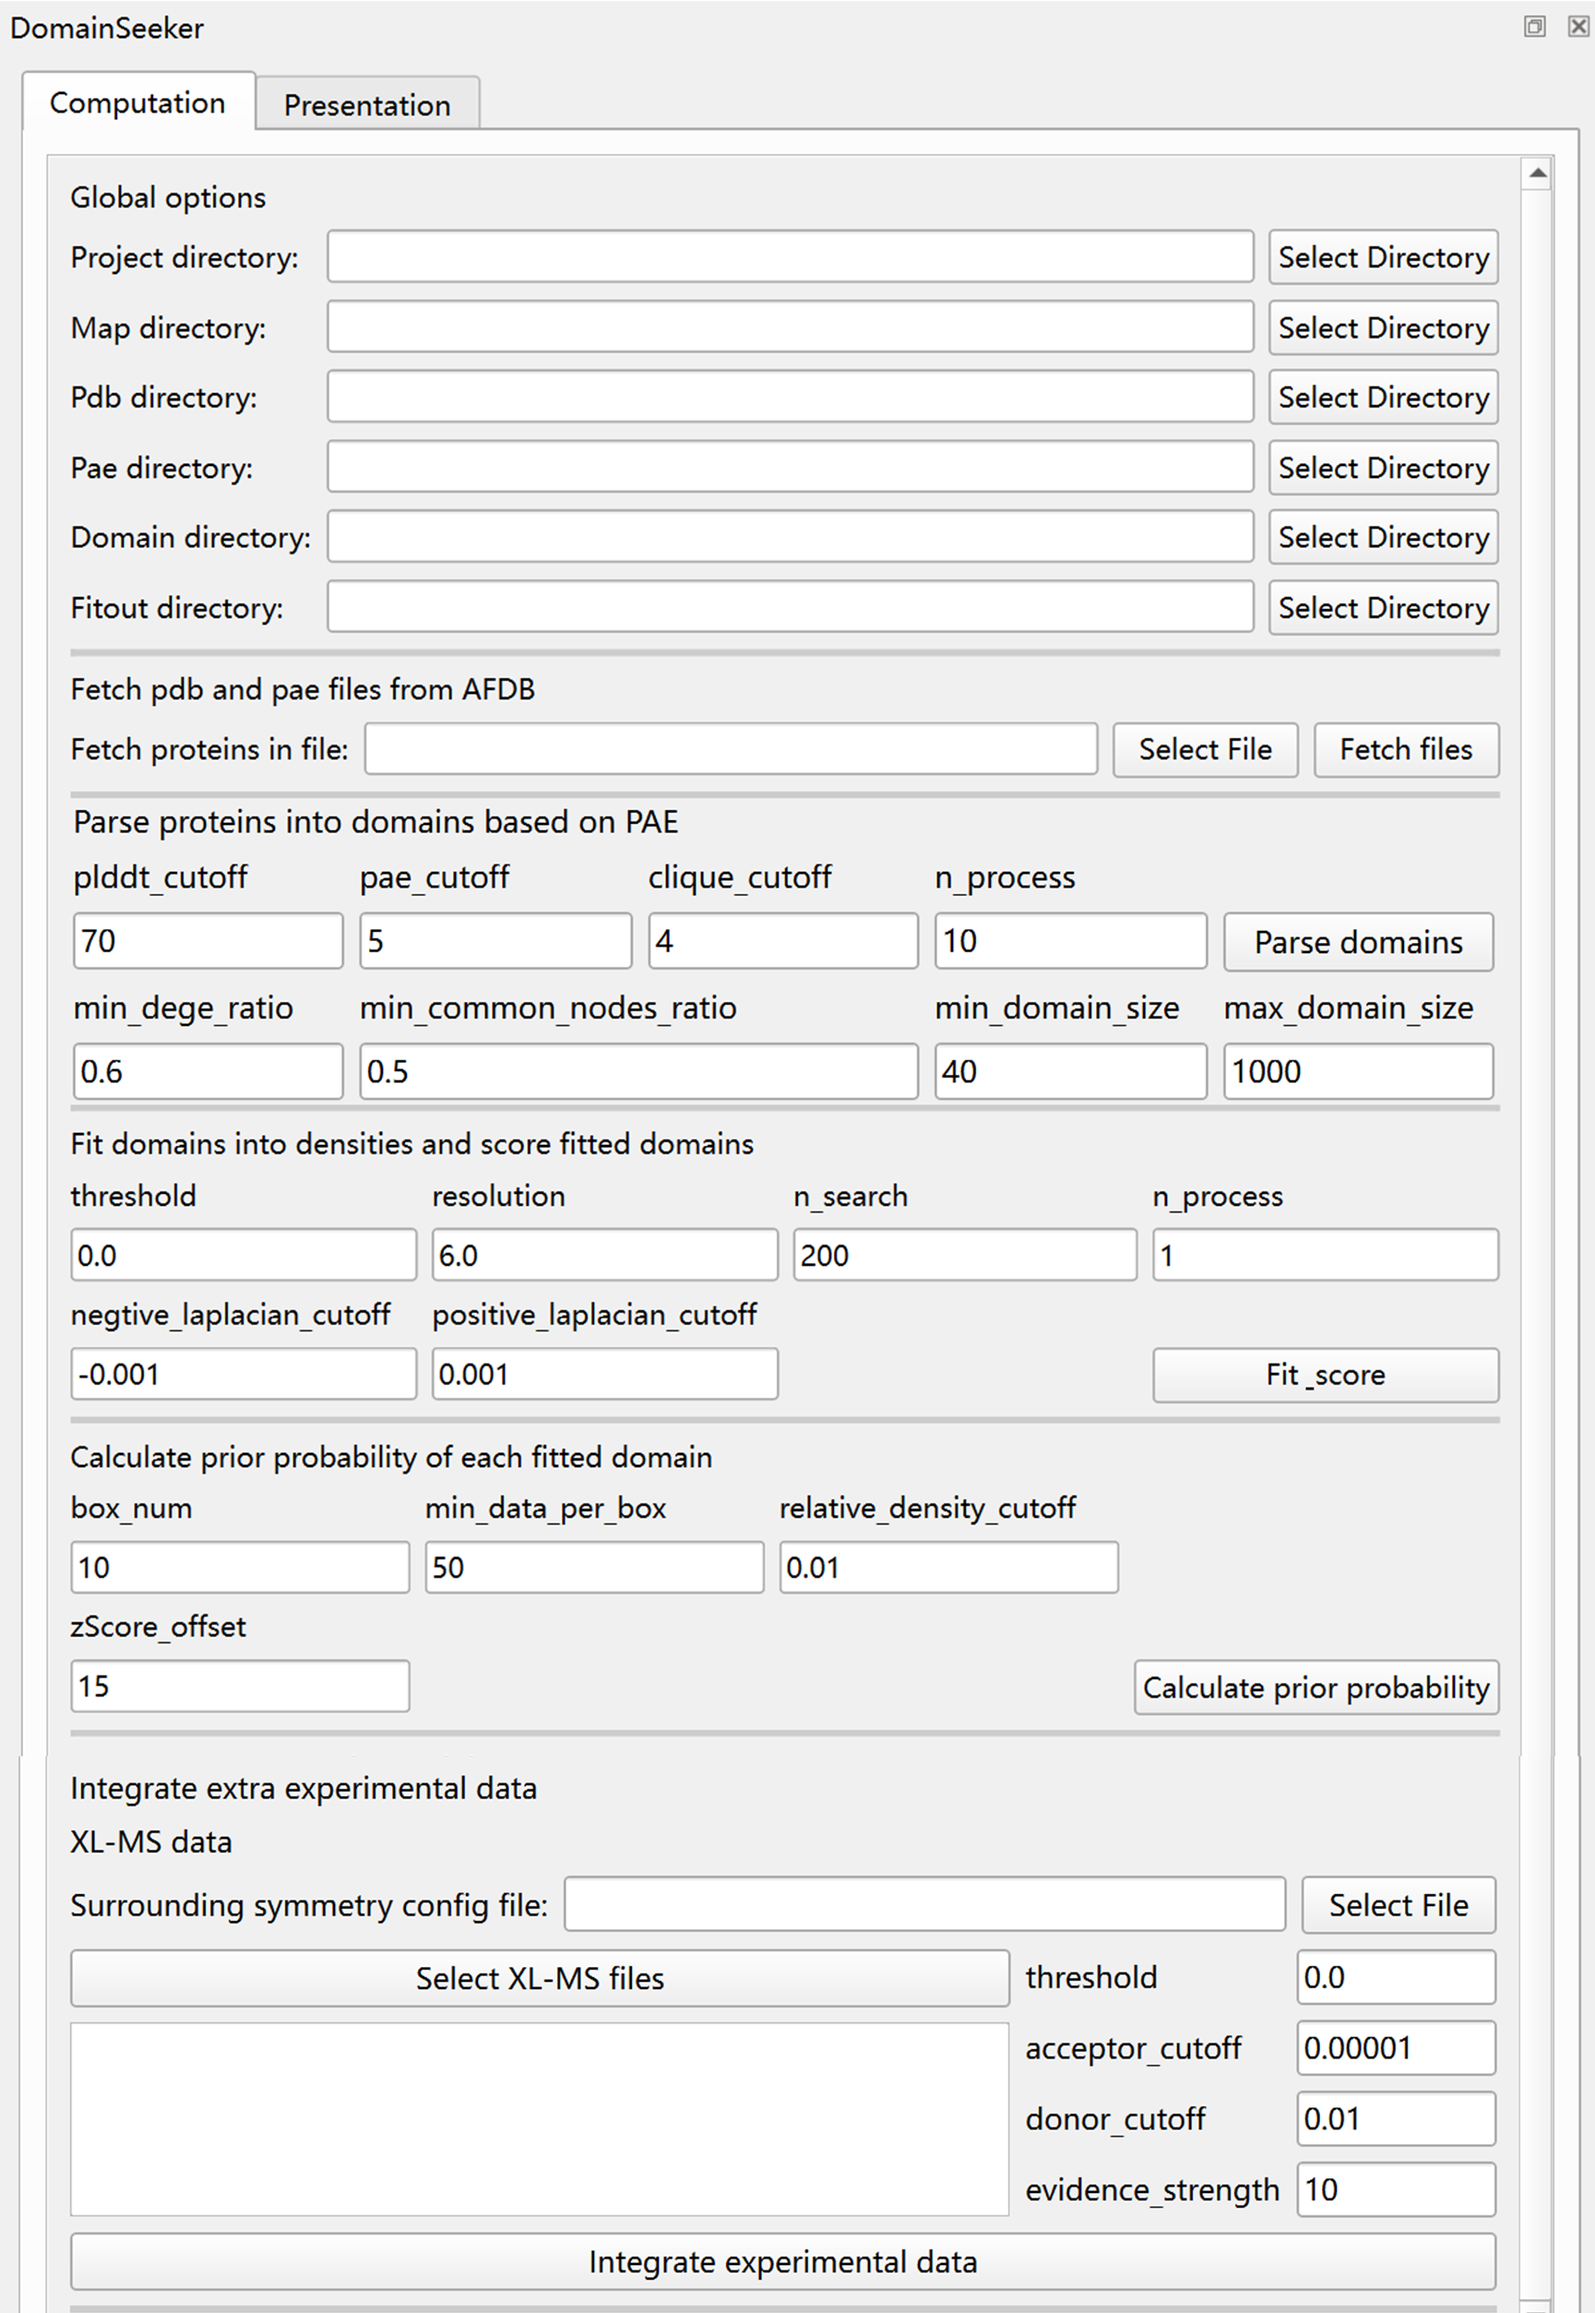
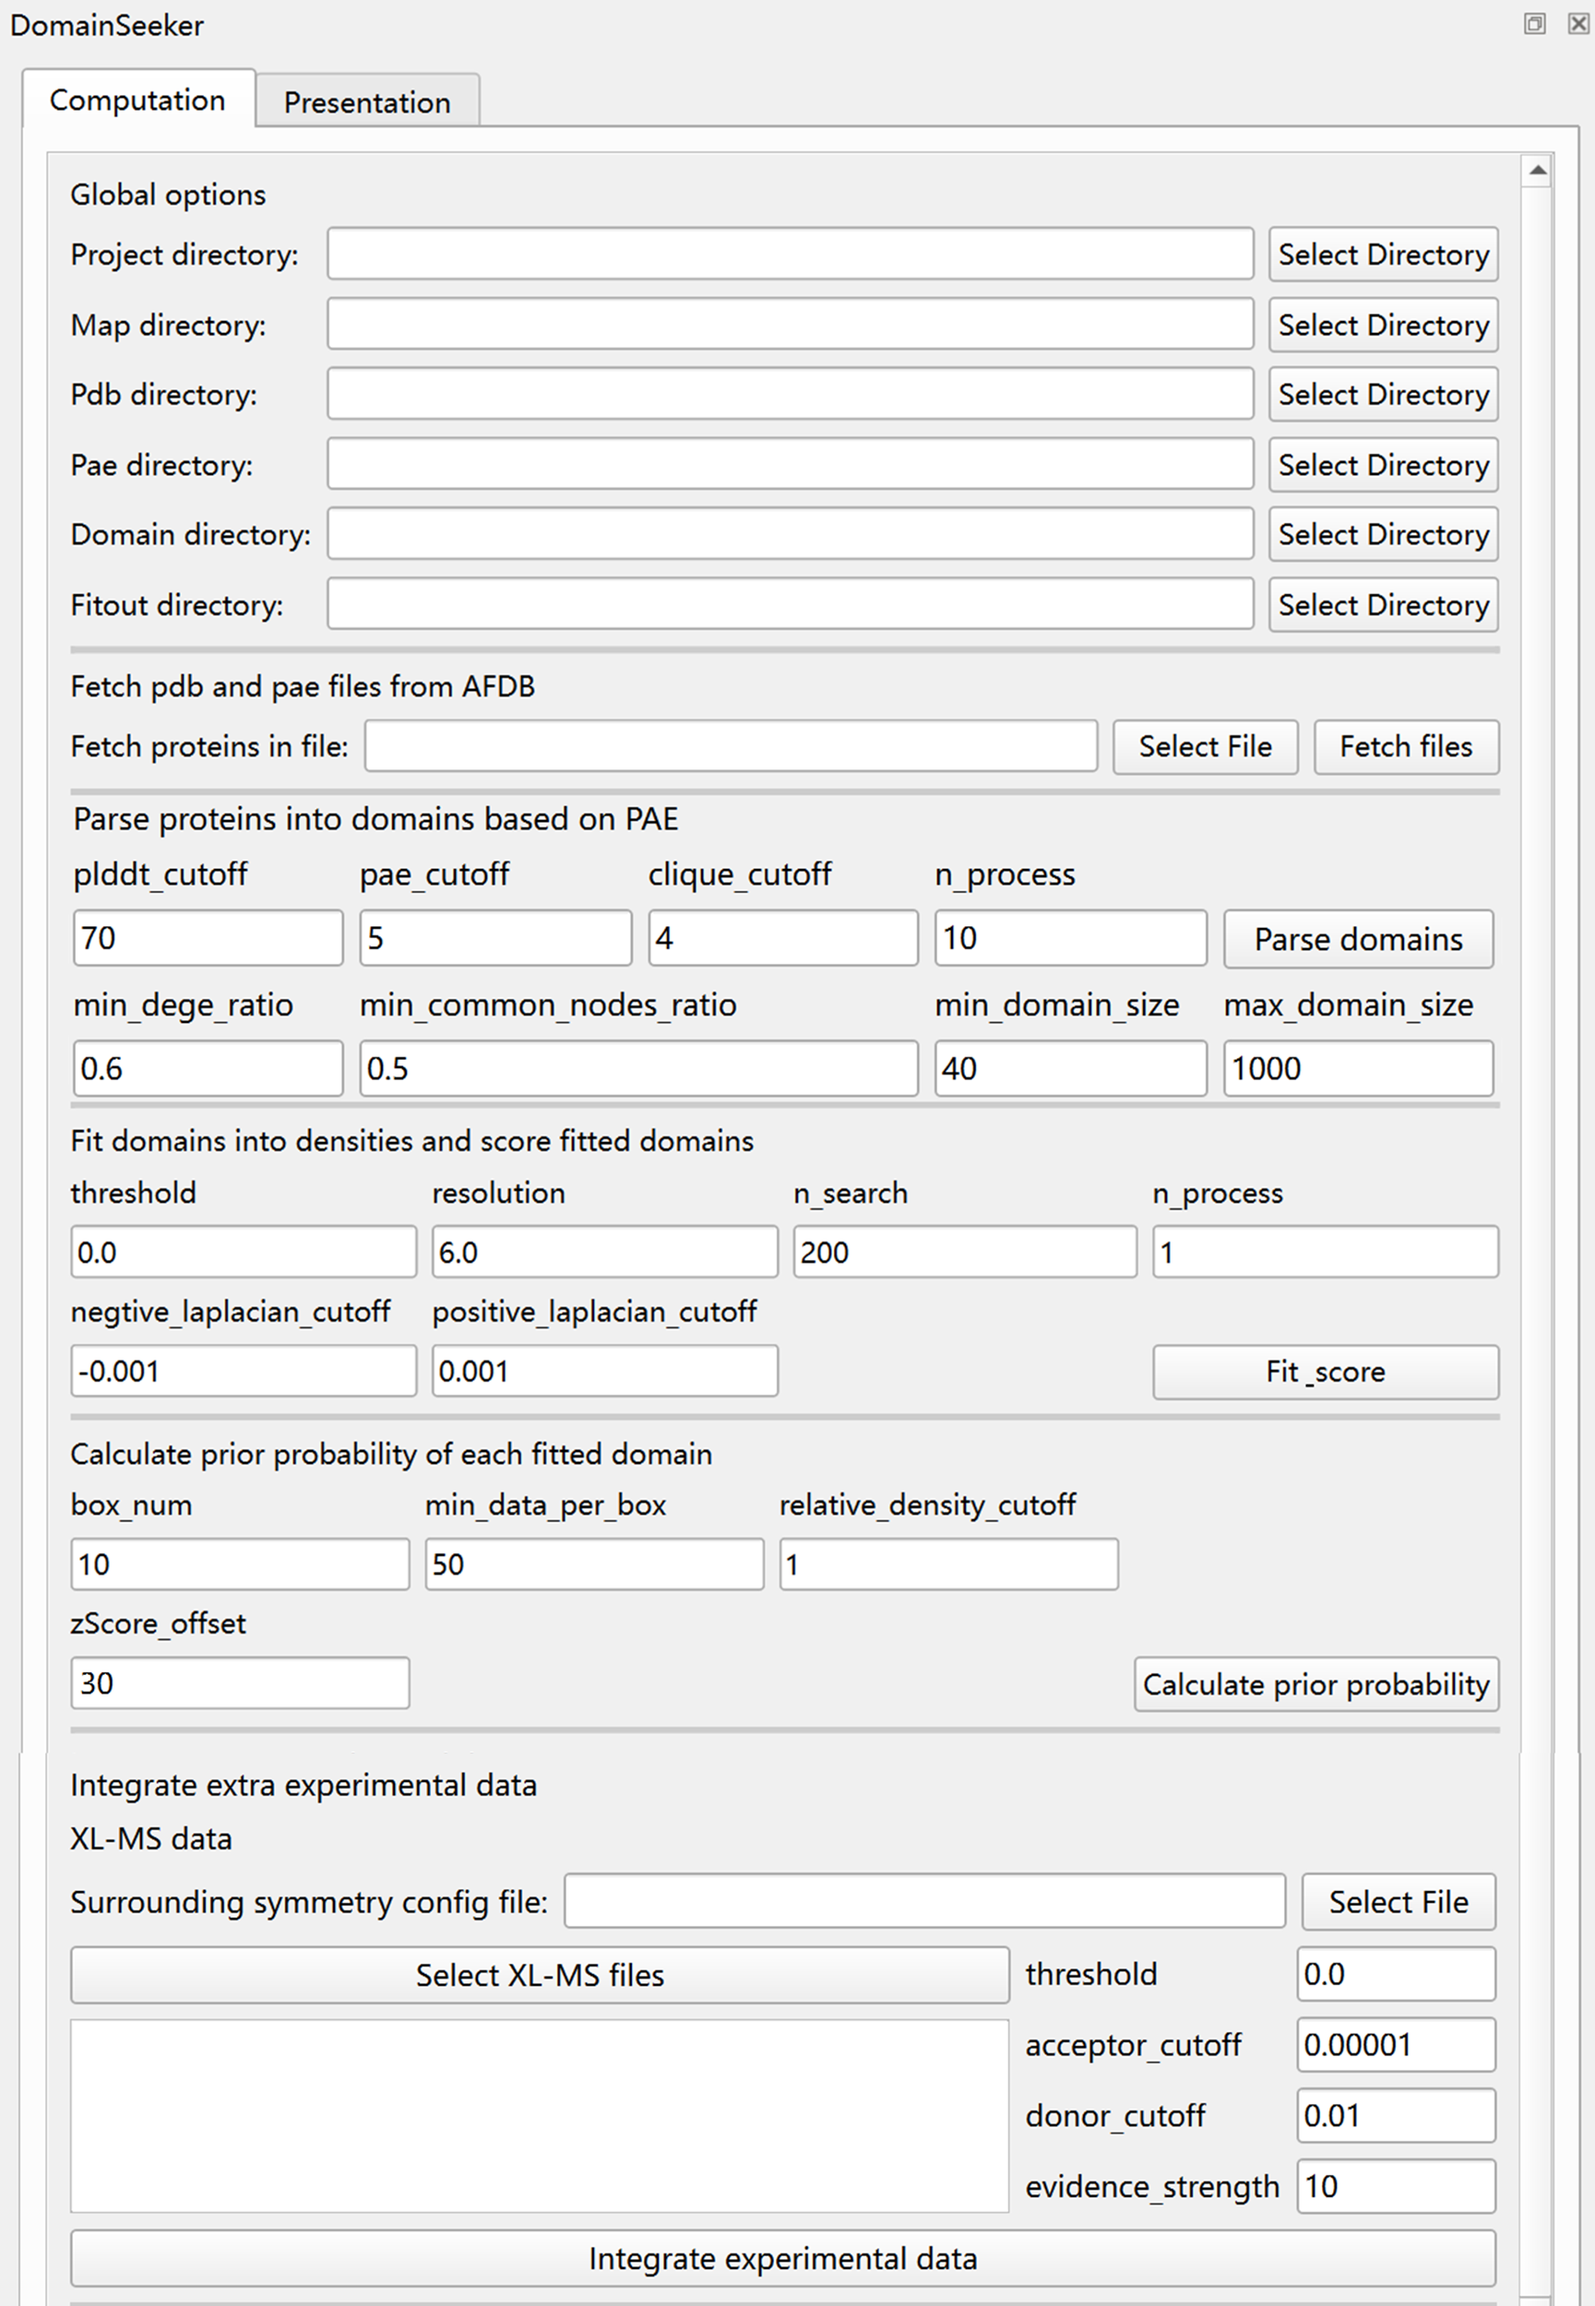
Support .cif files as input (auto-detected and converted). Formally support AF3 predicted structures (including multimers).

diff --git a/DomainSeeker_plugin/src/parse_with_pae.py b/DomainSeeker_plugin/src/parse_with_pae.py
@@ -5,6 +5,7 @@ import os,sys
 import multiprocessing
 from tqdm import tqdm
 import warnings
+from cif2pdb import cif2pdb
 
 pdb_dir=sys.argv[1]
 pae_dir=sys.argv[2]
@@ -181,12 +182,18 @@ def save_pdbs(u,clusters,uniprot_id,output_dir):
         info_file.close()
     return 0
 
-def run(pdb_file_name):
-    uniprot_id=pdb_file_name[:-4]
+def run(uniprot_id):
     pae_path=os.path.join(pae_dir,f"{uniprot_id}.json")
     if os.path.exists(pae_path):
-        # get the model
+        # 找 PDB，找不到则尝试 CIF → PDB
         pdb_path=os.path.join(pdb_dir,f"{uniprot_id}.pdb")
+        if not os.path.exists(pdb_path):
+            cif_path=os.path.join(pdb_dir,f"{uniprot_id}.cif")
+            if not os.path.exists(cif_path):
+                print(f"[WARN] {uniprot_id}: PDB 和 CIF 均不存在，跳过")
+                return
+            cif2pdb(cif_path, pdb_path)
+        # get the model
         with warnings.catch_warnings():
             warnings.simplefilter("ignore", category=UserWarning)
             # 抑制读取pdb时的冗余警告
@@ -202,11 +209,11 @@ def run(pdb_file_name):
 # run in parallel
 if __name__ == '__main__':
     os.makedirs(output_dir,exist_ok=True)
-    file_list=[file_name for file_name in os.listdir(pdb_dir) if file_name.endswith(".pdb")]
+    uniprot_id_list=[file_name[:-5] for file_name in os.listdir(pae_dir) if file_name.endswith(".json")]
 
     with multiprocessing.Pool(n_processors) as pool:
         # 强制迭代tqdm对象，更新进度条
-        for result in tqdm(pool.imap_unordered(run, file_list),total=len(file_list),desc="[STATUS]Parsing",file=sys.stdout):
+        for result in tqdm(pool.imap_unordered(run, uniprot_id_list),total=len(uniprot_id_list),desc="[STATUS]Parsing",file=sys.stdout):
             # 处理结果
             pass
     

diff --git a/DomainSeeker_plugin/src/cif2pdb.py b/DomainSeeker_plugin/src/cif2pdb.py
@@ -1,0 +1,52 @@
+"""
+CIF → PDB 转换模块
+
+使用 Gemmi 读取 mmCIF 文件，输出 PDB 文件。
+默认在 CIF 同目录生成同名 .pdb（不传 pdb_path 时）。
+
+依赖: gemmi
+
+用法:
+    from cif2pdb import cif2pdb
+    pdb = cif2pdb("structure.cif")             # → structure.pdb 在同目录
+    pdb = cif2pdb("structure.cif", "a.pdb")    # → a.pdb
+"""
+
+import os
+import gemmi
+
+
+def cif2pdb(cif_path, pdb_path=None):
+    """
+    读取 mmCIF 文件，输出 PDB 文件。
+
+    参数
+    ----------
+    cif_path : str
+        .cif 文件路径。
+    pdb_path : str, optional
+        PDB 输出路径。不传时自动设为 cif_path 同目录同名 .pdb。
+
+    返回
+    -------
+    str
+        PDB 文件的绝对路径。
+    """
+    if not os.path.exists(cif_path):
+        raise FileNotFoundError(f"文件不存在: {cif_path}")
+
+    try:
+        structure = gemmi.read_structure(cif_path)
+    except Exception as e:
+        raise ValueError(f"Gemmi 无法解析 CIF: {e}")
+
+    if not structure:
+        raise ValueError(f"CIF 中无模型数据: {cif_path}")
+
+    if pdb_path is None:
+        base, _ = os.path.splitext(cif_path)
+        pdb_path = base + ".pdb"
+
+    os.makedirs(os.path.dirname(pdb_path), exist_ok=True)
+    structure.write_pdb(pdb_path)
+    return os.path.abspath(pdb_path)

diff --git a/DomainSeeker_plugin/src/tool.py b/DomainSeeker_plugin/src/tool.py
@@ -296,12 +296,12 @@ class DomainSeeker(ToolInstance):
         body.addWidget(min_data_per_box_text, 1, 1)
 
         relative_density_cutoff_text = QLineEdit()
-        relative_density_cutoff_text.setText("0.01")
+        relative_density_cutoff_text.setText("1")
         body.addWidget(QLabel("relative_density_cutoff"), 0, 2)
         body.addWidget(relative_density_cutoff_text, 1, 2)
 
         zScore_offset_text = QLineEdit()
-        zScore_offset_text.setText("15")
+        zScore_offset_text.setText("30")
         body.addWidget(QLabel("zScore_offset"), 2, 0)
         body.addWidget(zScore_offset_text, 3, 0)
 

diff --git a/README.md b/README.md
@@ -82,6 +82,10 @@ Alternatively, in the "Fetch pdb and pae files from AFDB" module, you can select
 
 <img src="images/fetch_pdb_pae.png" width="600px">
 
+### Multimer structure support
+
+DomainSeeker now supports AF3-predicted structures (including **multimers**). AF3-predicted structure files are typically named `fold_xxx_model_x.cif`, with PAE data saved in `fold_xxx_full_data_x.json`. Place these files into the pdb_files and pae_files folders respectively (renaming is optional, but recommended). The only requirement is that the structure and PAE files share the same base name (excluding extension). All subsequent steps process them identically to AF2 data. During domain parsing, .cif files will be automatically converted to PDB.
+
 ### Parse proteins into domains based on PAE
 
 After obtaining the PDB and PAE files, click the "Parse Domains" button to perform domain partitioning based on the PAE information.  
@@ -242,8 +246,9 @@ Note: **Add ChimeraX to your system's PATH environment variable**.
 
 1. Python ≥3.9
 2. mdanalysis
-3. networkx
-4. wget
+3. gemmi
+4. networkx
+5. wget
 
 ## Workflow
 

diff --git a/CHANGELOG.md b/CHANGELOG.md
@@ -1,6 +1,10 @@
 # Changelog
 All notable changes to this project will be documented in this file.
 
+## [1.1.2] 2026-05-30
+Support .cif files as input (auto-detected and converted).
+Formally support AF3 predicted structures (including multimers).
+
 ## [1.1.2] - 2026-05-24
 Adapt to AF3 per-atom pLDDT: use CA atom pLDDT and `resindices` for
 cross-chain safe residue filtering in domain parsing.
